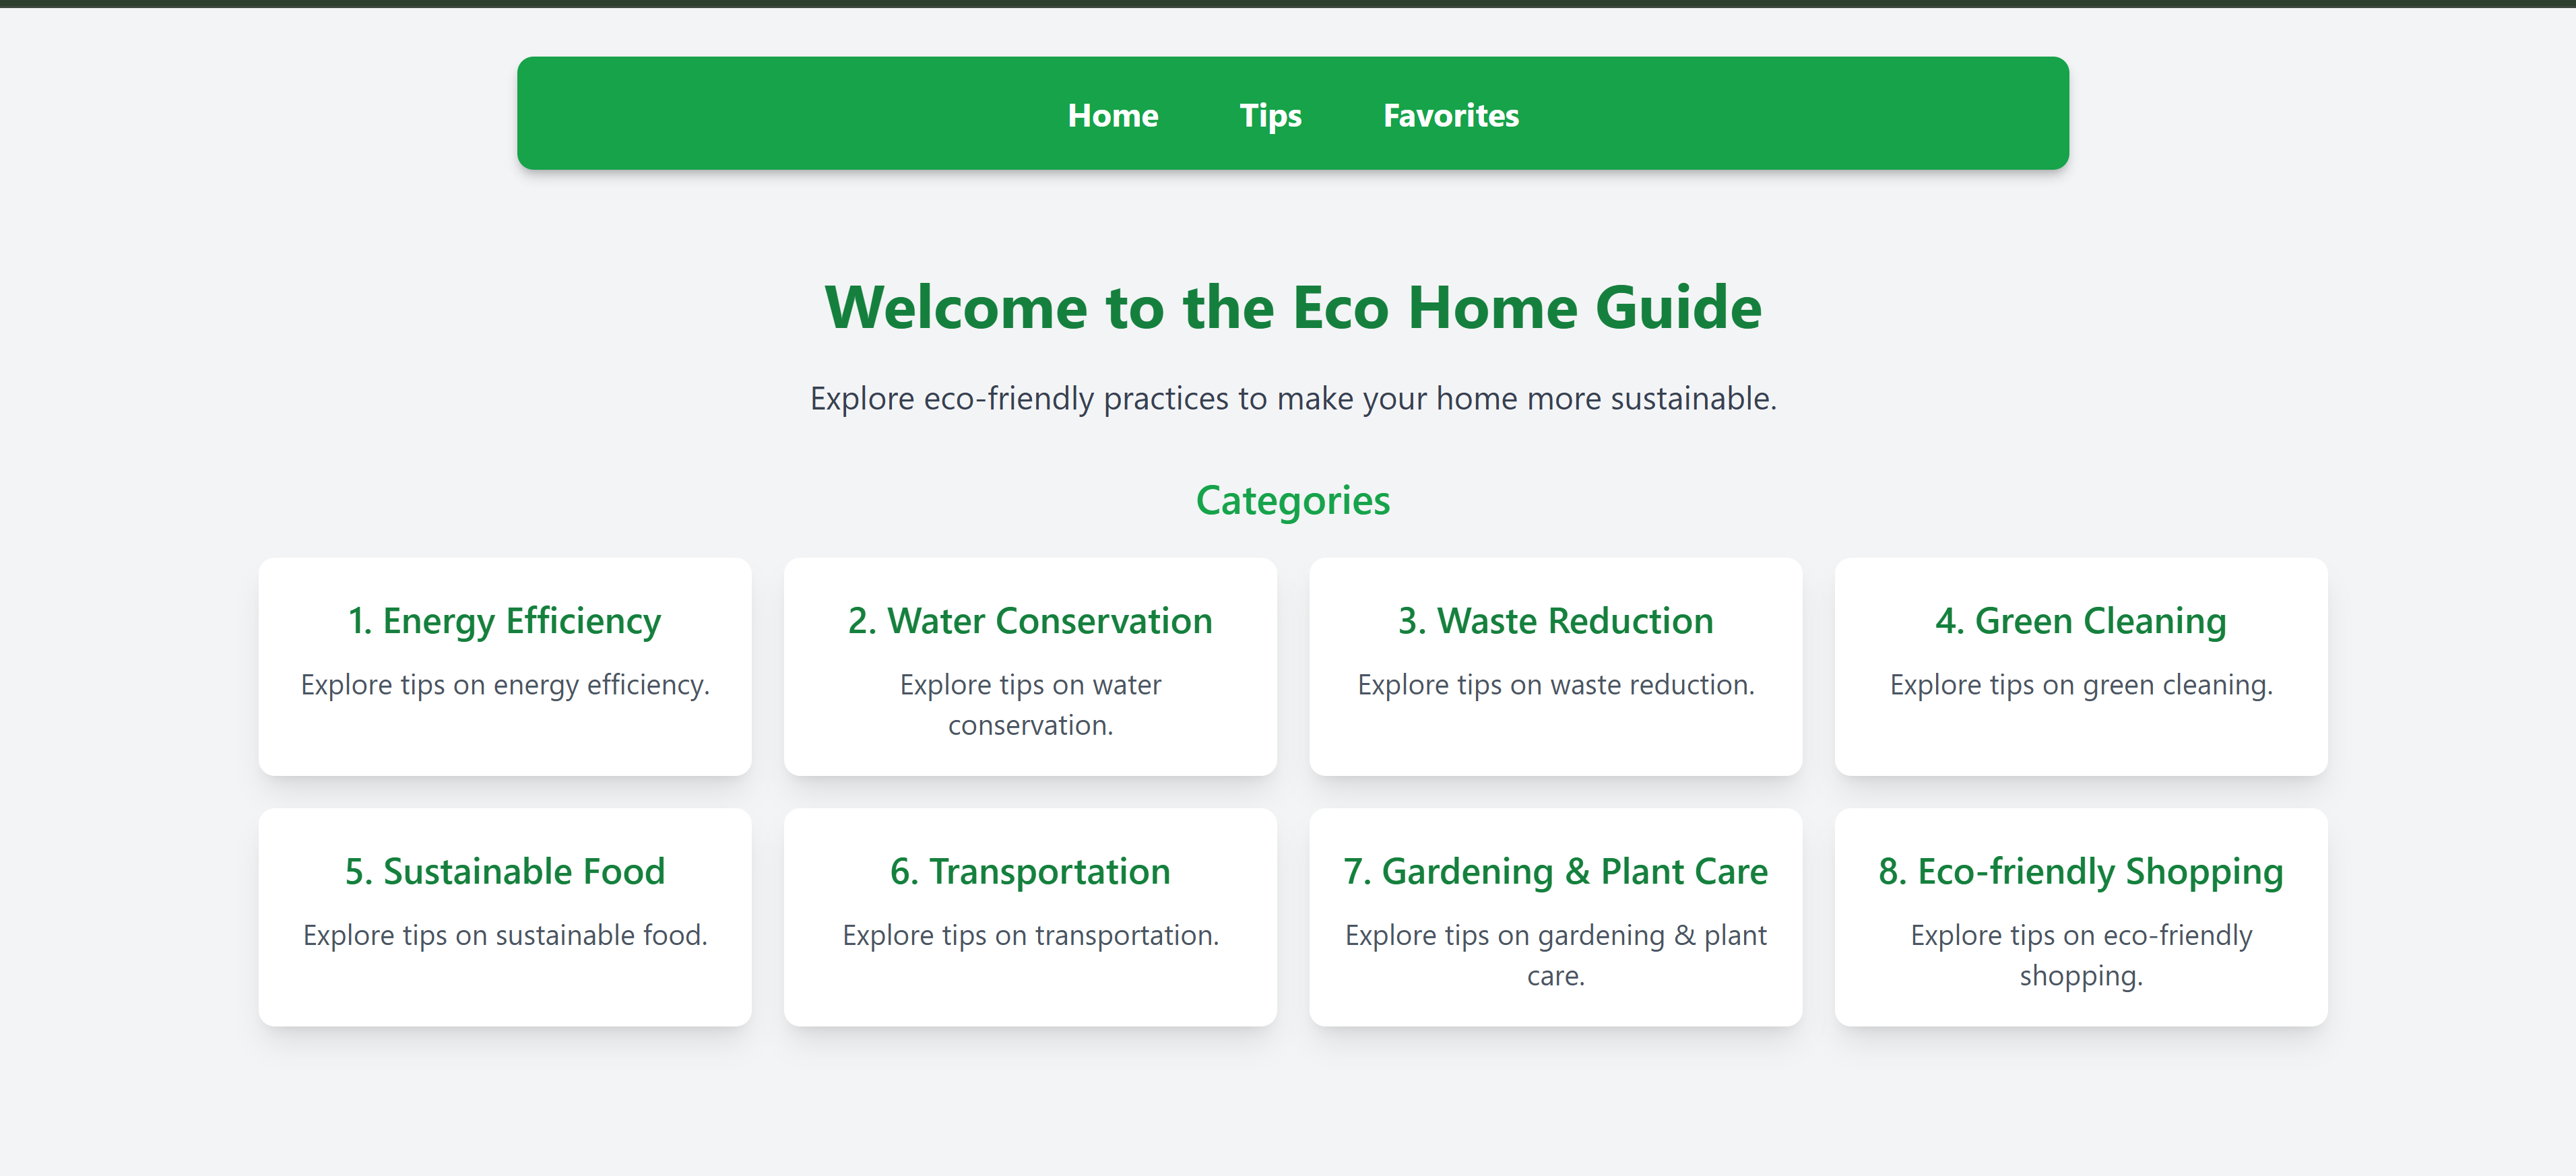
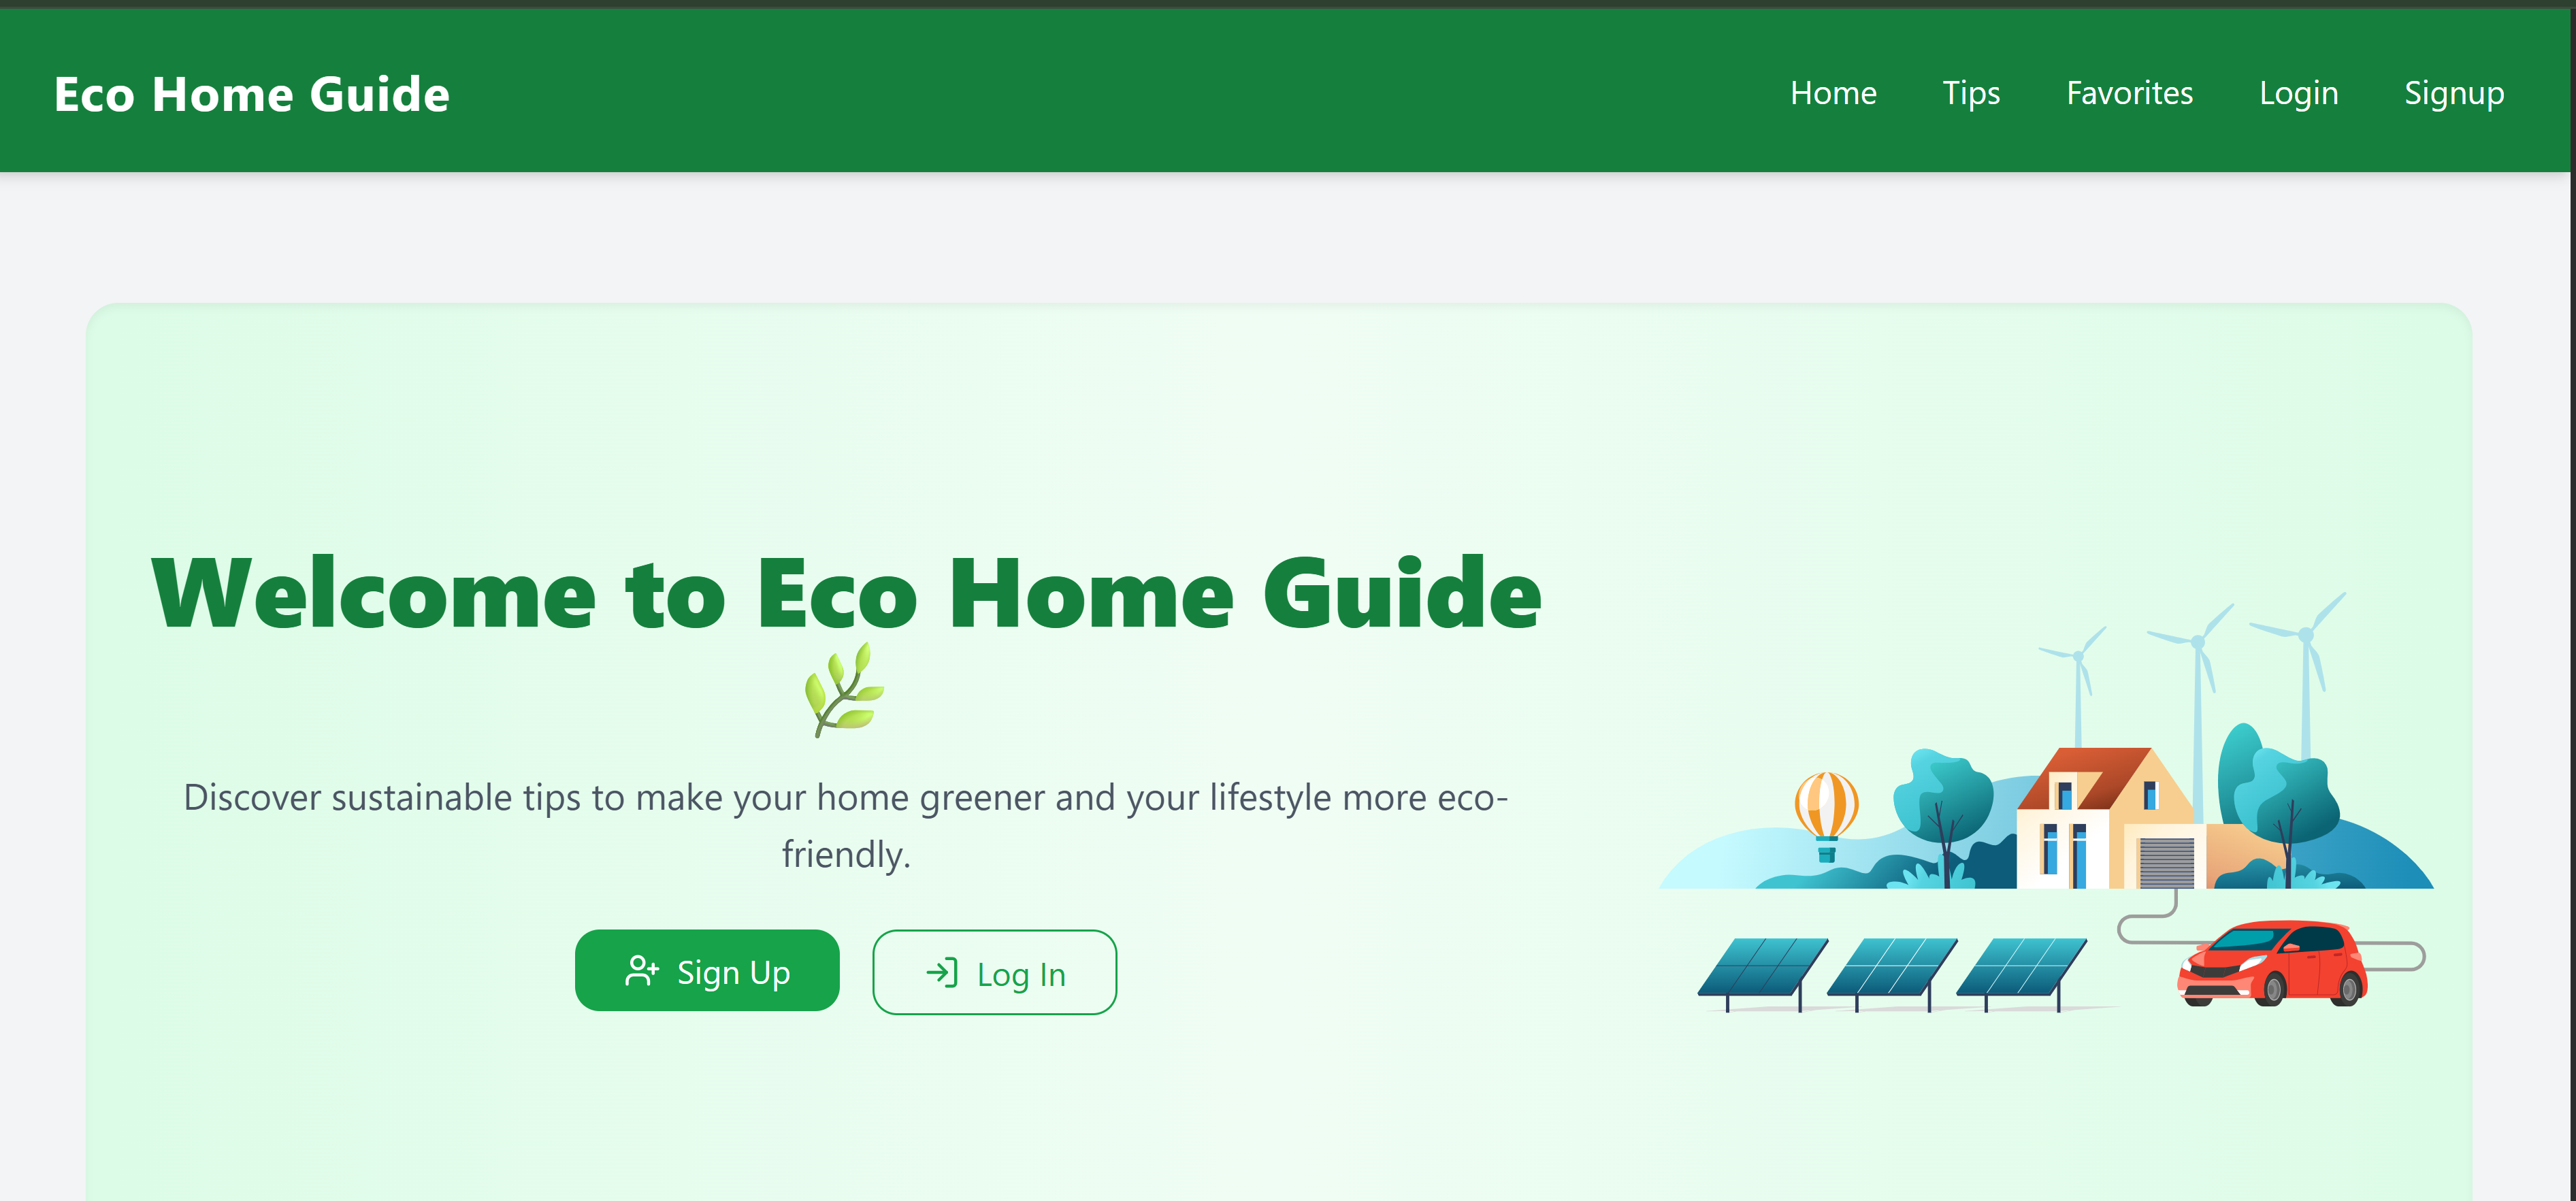
update projects

diff --git a/src/components/Projects.js b/src/components/Projects.js
@@ -65,12 +65,12 @@ const projects = [
   },
   {
     title: "Eco Home Guide",
-    type: "Front-End",
+    type: "Full-Stack",
     description: "A user-friendly guide to eco-friendly home improvements.",
     tech: ["React", "Chart.js", "Vercel"],
     image: "/eco-home-guide.png",
-    github: "https://github.com/benjaminmweribaya/eco-home-guide-app",
-    liveDemo: "https://eco-home-guide-app.vercel.app",
+    github: "https://github.com/benjaminmweribaya/eco-home-guide",
+    liveDemo: "https://eco-home-guide.vercel.app",
     featured: false,
     details: [
       "Visual representation of energy savings with Chart.js",